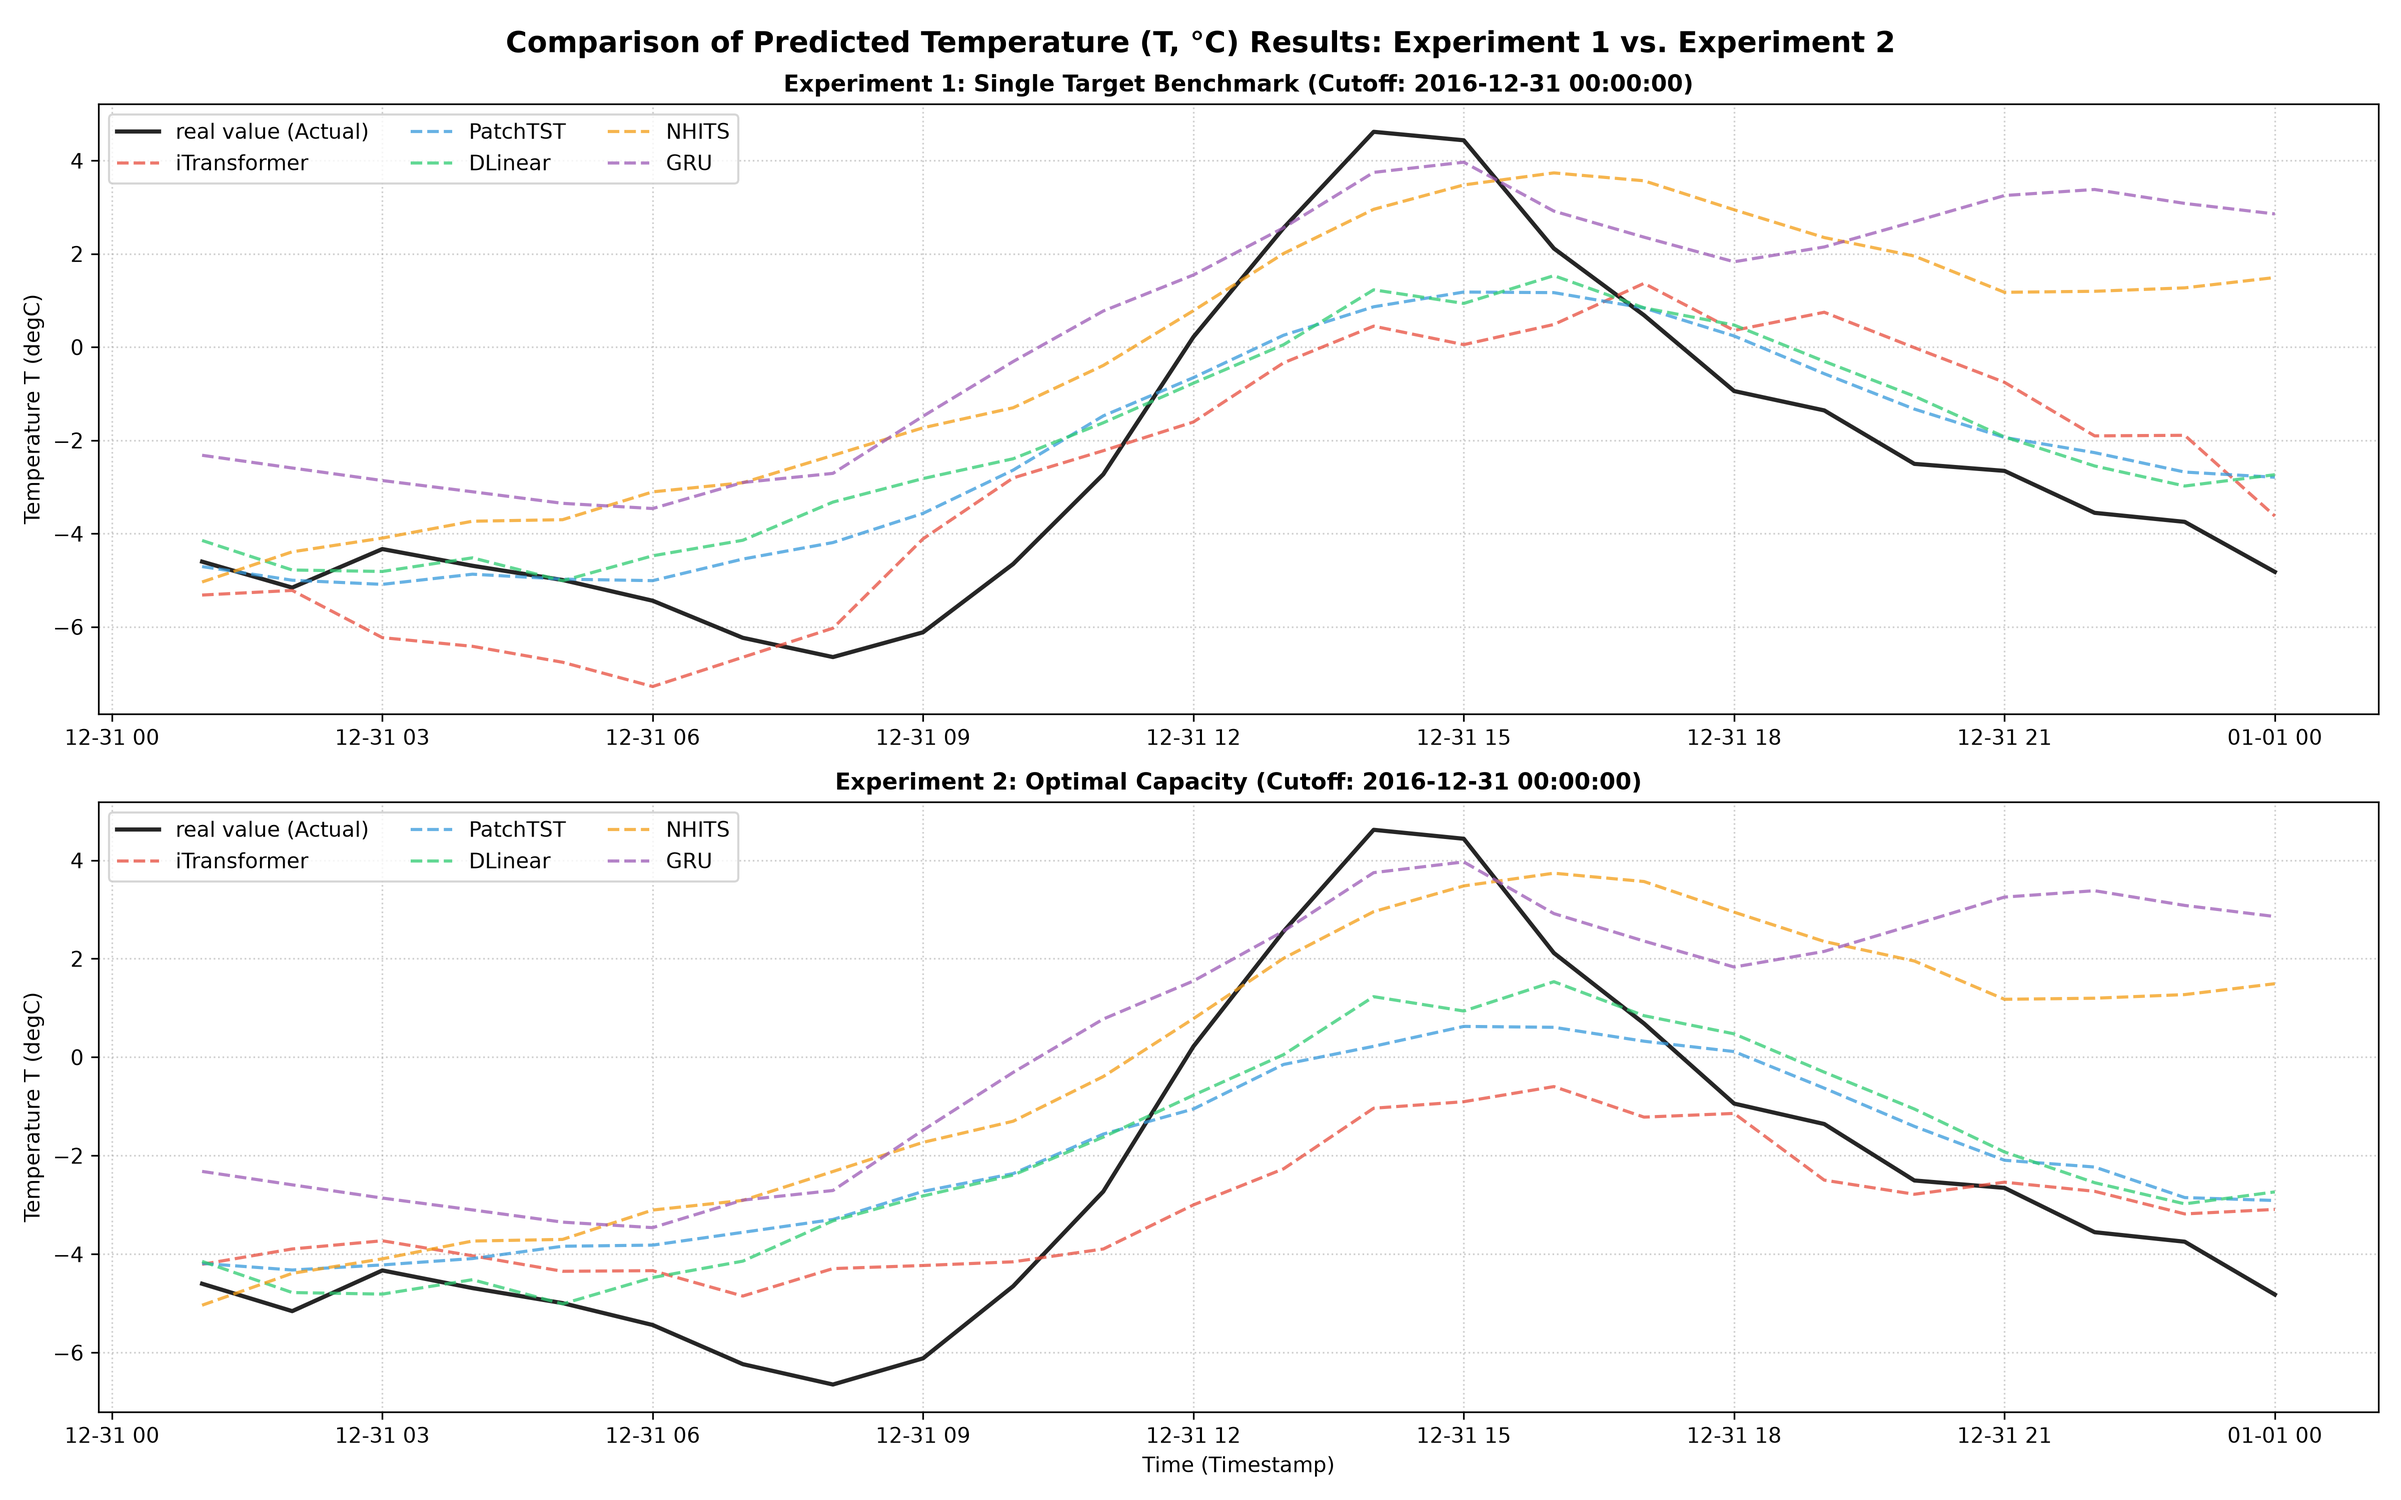
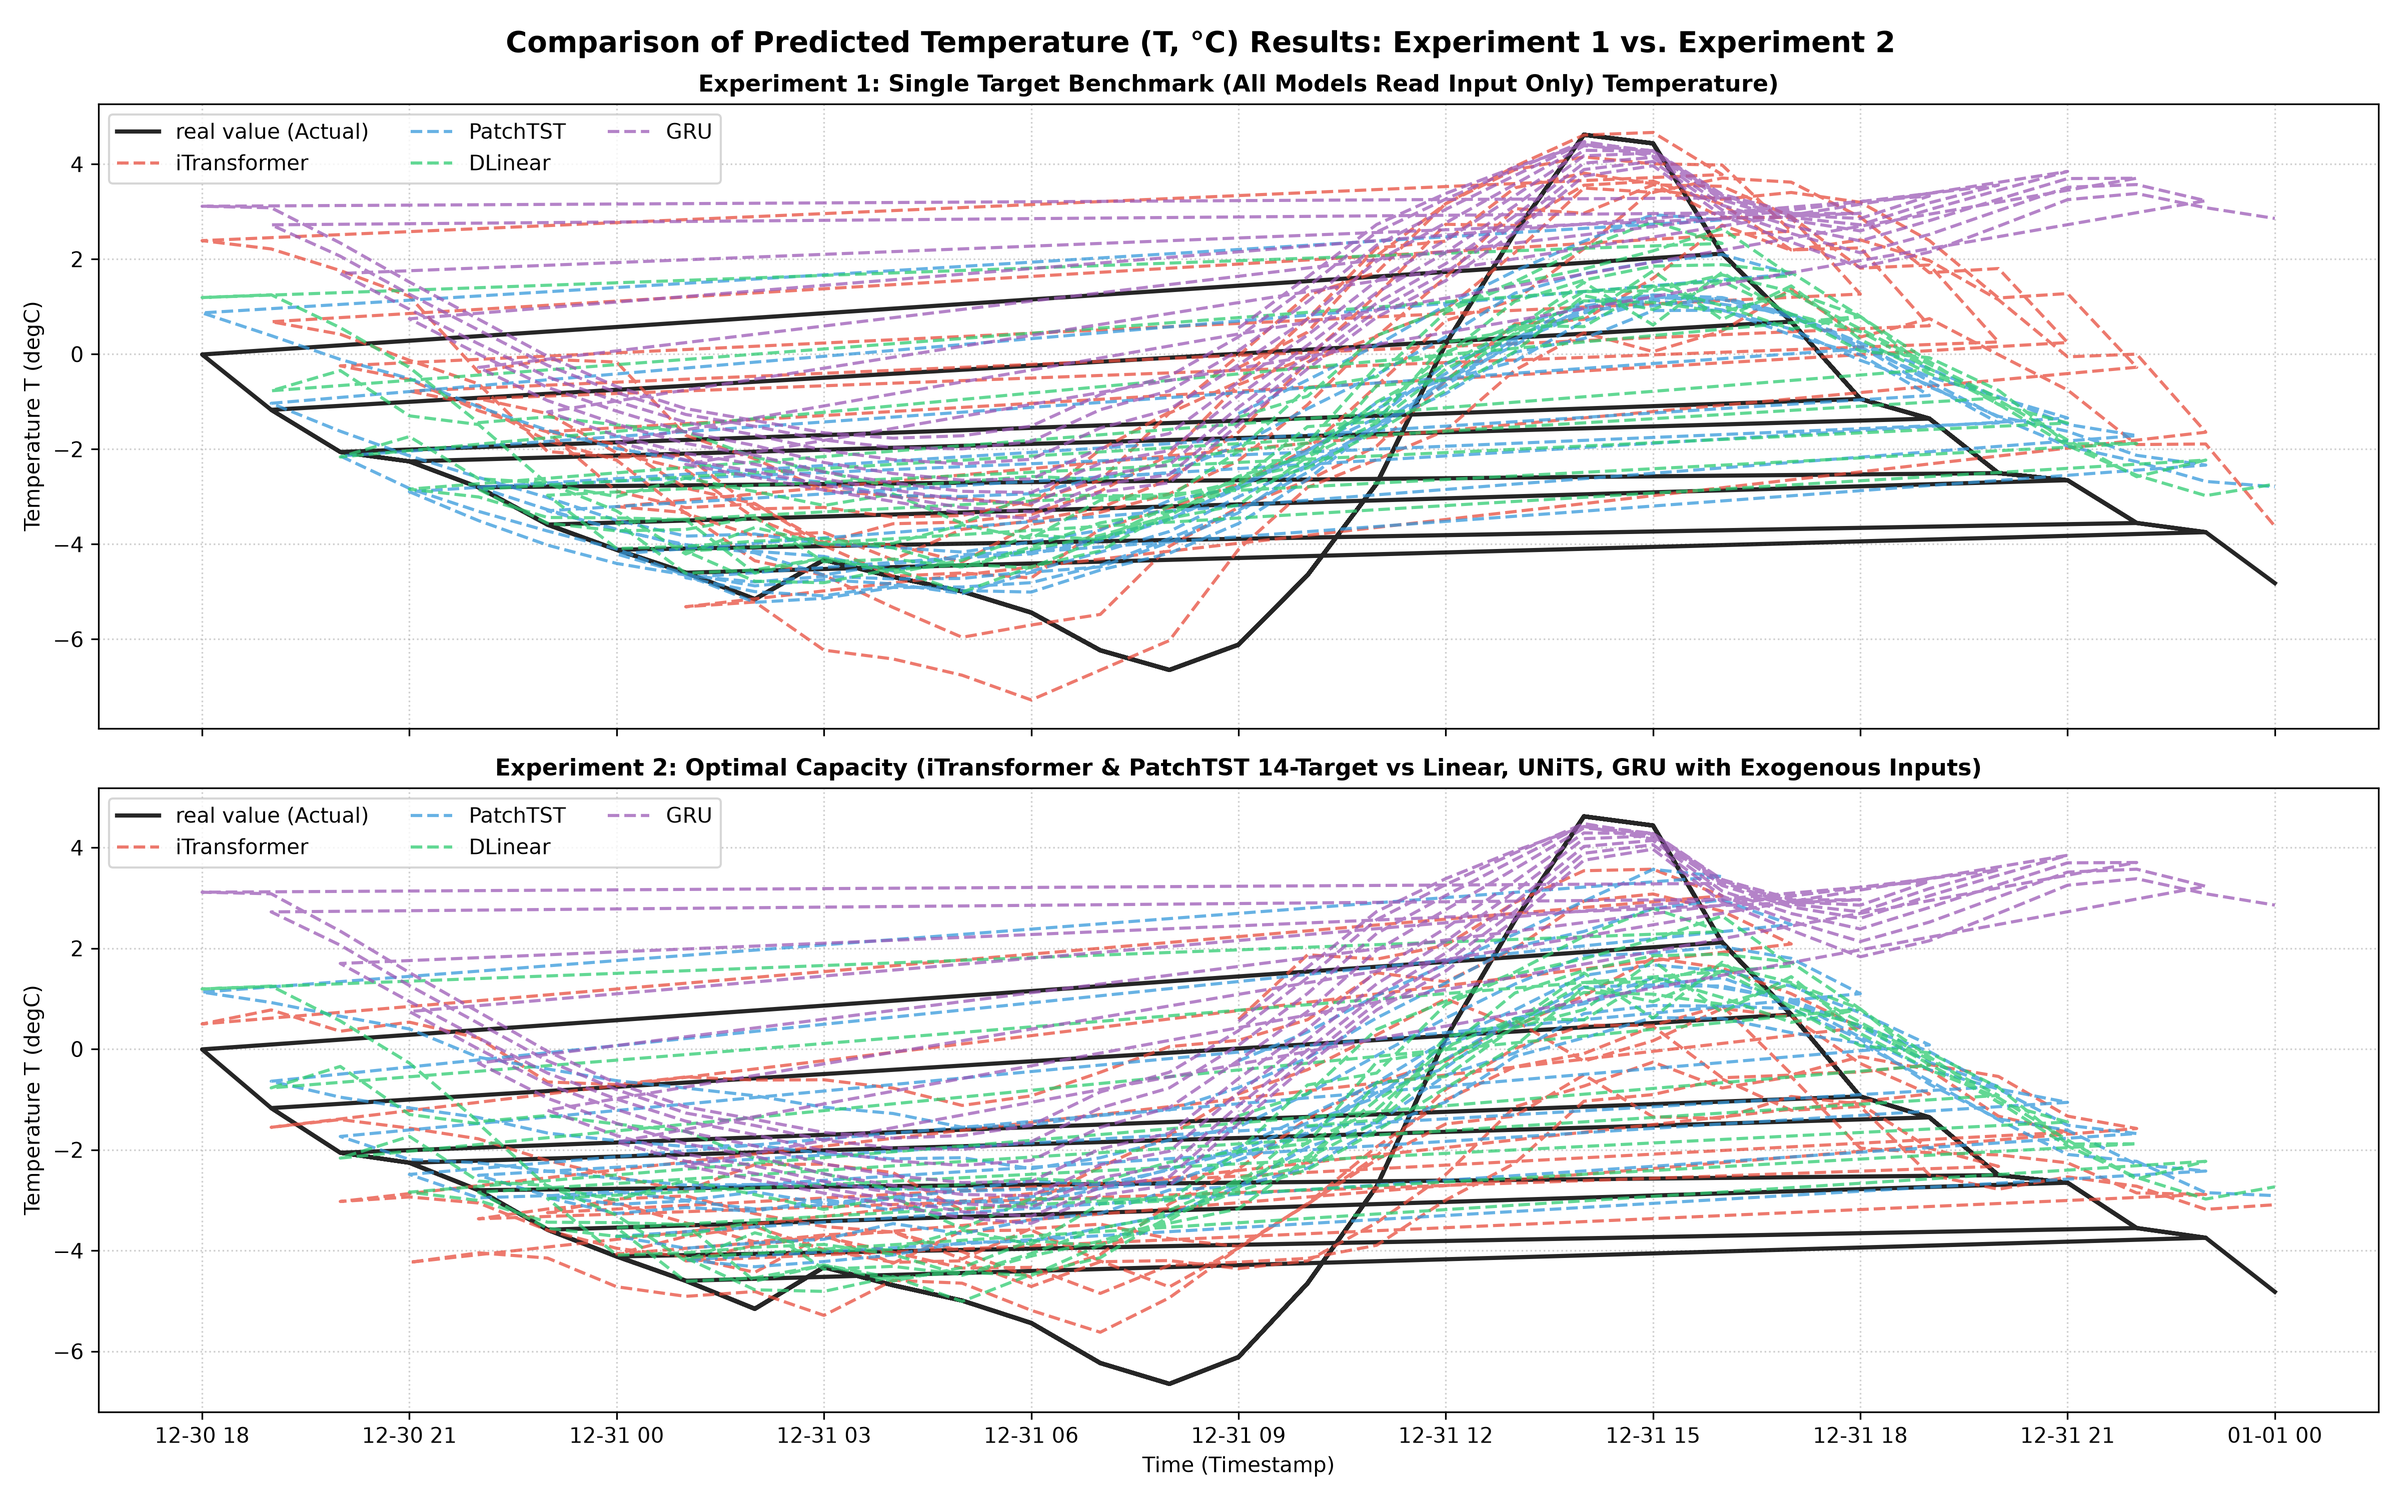
done

diff --git a/README.md b/README.md
@@ -1,2 +1,72 @@
-# Max-Plank-Weather-using-iTransformer-PatchTST-DLinear-N-HiTS-dan-GRU
-prediction comparison using iTransformer, PatchTST, DLinear, N-HiTS, and RNN
+## Experimental Design & Workflow
+```text
++-----------------------------------------------------------------------+
+|                    Max Planck Weather Dataset                         |
+|                      (14 Weather Variables)                           |
++-----------------------------------------------------------------------+
+                                   |
+                                   v
++-----------------------------------------------------------------------+
+|                  Data Preprocessing & Scaling                         |
+|          (Chronological Train-Test Split & Standardizer)              |
++-----------------------------------------------------------------------+
+                                   |
+                  +----------------+----------------+
+                  |                                 |
+                  v                                 v
++-----------------------------------+ +-----------------------------------+
+|   Experiment 1: Single-Target     | |   Experiment 2: Multi-Target /    |
+|            Benchmark              | |        Exogenous Capacity         |
++-----------------------------------+ +-----------------------------------+
+| Input : Temperature T (degC)      | | Input : All 14 Weather Variables  |
+| Target: Temperature T (degC)      | | Target:                           |
+|                                   | |  - 14 Targets (Multivariate):     |
+| Models (Default Hyperparameters): | |    iTransformer, PatchTST         |
+|  - iTransformer, PatchTST,        | |  - Target + Exogenous Features:   |
+|    DLinear, NHITS, GRU            | |    DLinear, NHITS, GRU            |
++-----------------------------------+ +-----------------------------------+
+                  |                                 |
+                  +----------------+----------------+
+                                   |
+                                   v
++-----------------------------------------------------------------------+
+|                 Rolling-Window Cross Validation                       |
+|             (Evaluated across distinct Time Cutoffs)                  |
++-----------------------------------------------------------------------+
+                                   |
+                                   v
++-----------------------------------------------------------------------+
+|                      Performance Evaluation                           |
+|             - Compute Absolute Metrics (MAE & RMSE)                   |
+|             - Calculate Relative Improvement Delta (%)                |
++-----------------------------------------------------------------------+
+                                   |
+                                   v
++-----------------------------------------------------------------------+
+|                      Visual & Quantitative Output                     |
+|           - Single-Cutoff Forecast Plots (Clean Overlay)              |
+|           - Summary Delta Performance Table                           |
++-----------------------------------------------------------------------+
+
+### Objective
+This benchmark evaluates deep learning time-series models (**iTransformer, PatchTST, DLinear, NHITS, and GRU**) on the Max Planck Weather dataset. All models are trained under their default architectural configurations in `NeuralForecast` to establish a fair and standard baseline.
+
+### Experimental Setup
+To analyze model behavior under different input capabilities, the experiment is divided into two phases:
+
+1. **Experiment 1: Single-Target Benchmark**
+   * **Goal:** Establish a baseline prediction performance.
+   * **Scope:** All models predict a single target variable—Temperature (`T (degC)`)—using only historical values of Temperature as input.
+
+2. **Experiment 2: Multi-Target & Exogenous Capacity**
+   * **Goal:** Evaluate how models leverage additional weather features.
+   * **Multivariate Models (iTransformer, PatchTST):** Trained to predict all 14 weather variables simultaneously to capture inter-variable correlations.
+   * **Exogenous-supported Models (DLinear, NHITS, GRU):** Predict Temperature (`T (degC)`) while incorporating historical exogenous features from the other 13 weather variables.
+
+---
+
+### Evaluation Strategy
+* **Cross-Validation:** Evaluated across multiple rolling windows to prevent data leakage and capture seasonal variations.
+* **Metrics:** Evaluated using Mean Absolute Error (**MAE**) and Root Mean Squared Error (**RMSE**).
+* **Performance Delta (%):** Calculates the relative error reduction from Experiment 1 to Experiment 2:
+  $$\text{Delta (\%)} = \frac{\text{Metric}_{\text{Exp1}} - \text{Metric}_{\text{Exp2}}}{\text{Metric}_{\text{Exp1}}} \times 100$$
